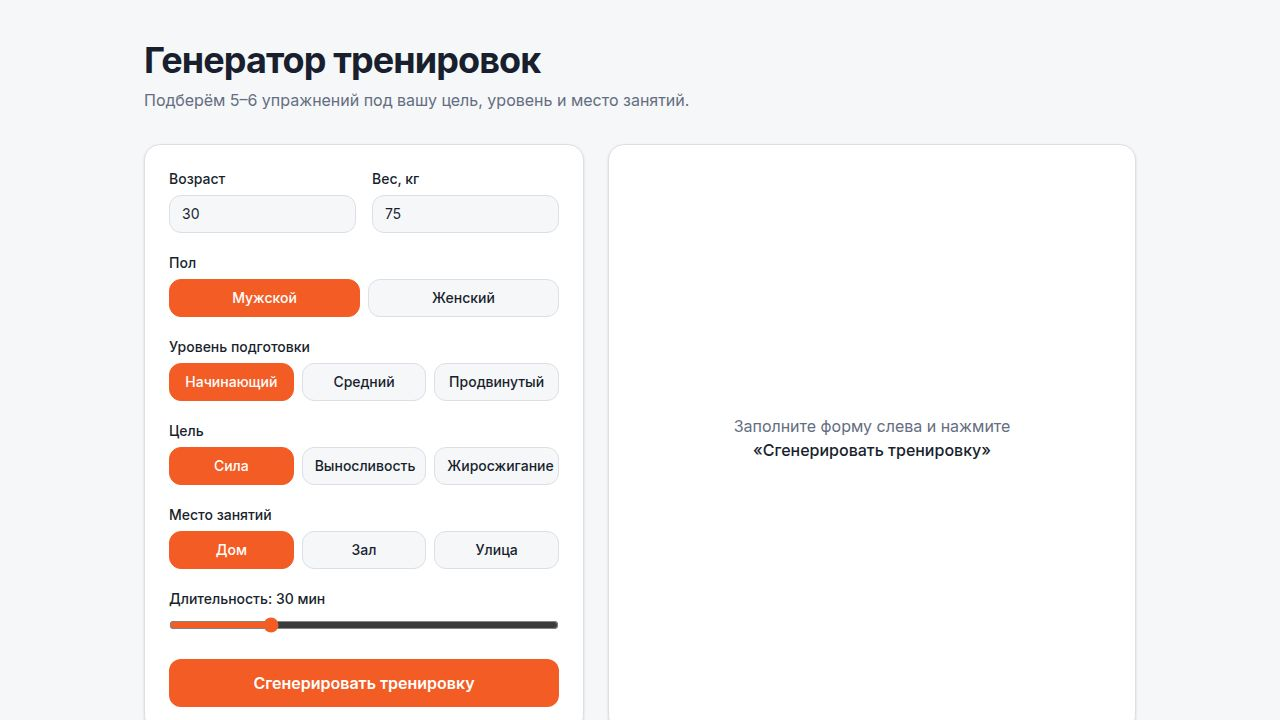
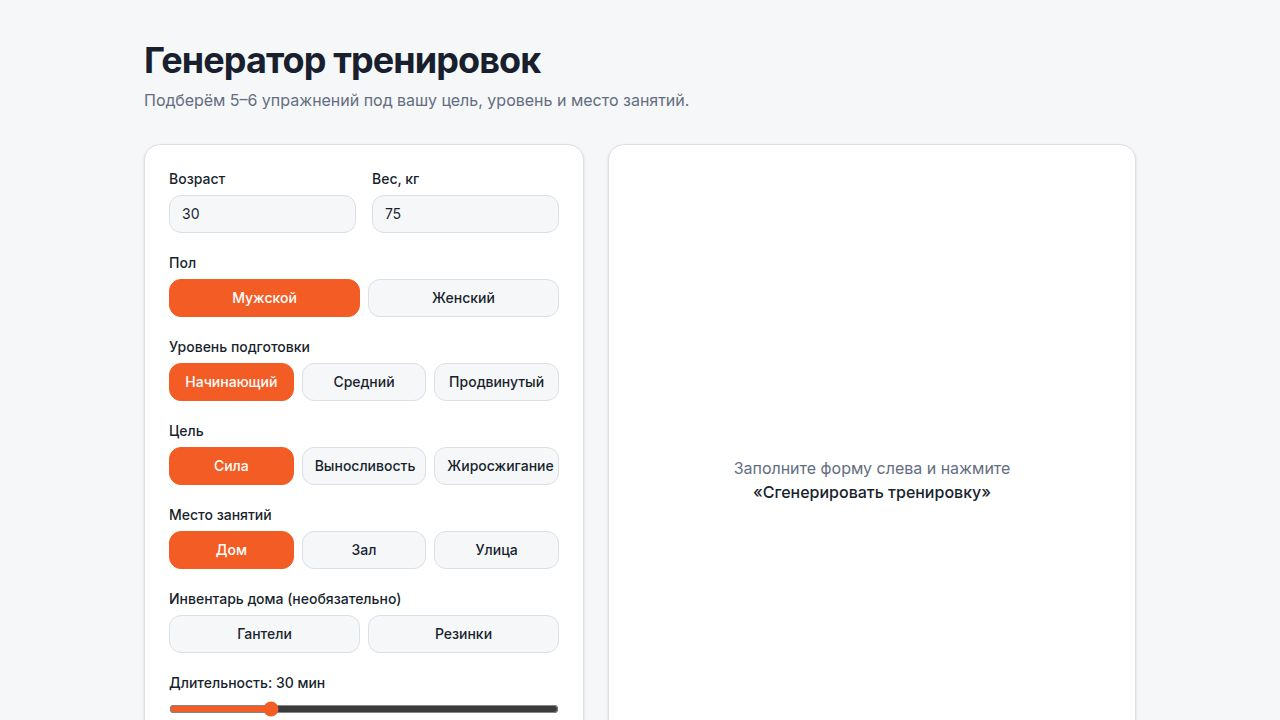
Add information about rest time between exercises
Add rest duration between exercises to the workout result, varying based on fitness level and goal.

Replit-Commit-Author: Agent
Replit-Commit-Session-Id: 5aa8140f-53c4-4a51-8685-b50749646fe8
Replit-Commit-Checkpoint-Type: full_checkpoint
Replit-Commit-Event-Id: 81a51727-2b13-446f-ba5c-9de12d0382b9
Replit-Commit-Screenshot-Url: https://storage.googleapis.com/screenshot-production-us-central1/eb931f4c-0b9d-4fb1-99ad-06359ac3e716/5aa8140f-53c4-4a51-8685-b50749646fe8/ONPYFKr
Replit-Helium-Checkpoint-Created: true

Changed region(s): [[0.125, 0.825, 0.4375, 1.0], [0.5625, 0.5806, 0.7812, 0.7028]]

diff --git a/artifacts/workout-generator/src/lib/workout.ts b/artifacts/workout-generator/src/lib/workout.ts
@@ -386,6 +386,7 @@ export interface WorkoutResult {
   warnings: string[];
   tips: string[];
   summary: string;
+  restBetween: string;
 }
 
 export function generateWorkout(f: FormData): WorkoutResult {
@@ -462,5 +463,15 @@ export function generateWorkout(f: FormData): WorkoutResult {
   }
   tips.push("После тренировки — заминка и растяжка 5 минут.");
 
-  return { exercises, calories, warnings, tips, summary };
+  // Отдых между упражнениями
+  const restBetweenByLevel: Record<Level, string> = {
+    beginner: "1.5–2 минуты",
+    intermediate: "60–90 секунд",
+    advanced: "45–60 секунд",
+  };
+  let restBetween = restBetweenByLevel[f.level];
+  if (f.goal === "strength") restBetween += " (можно до 2–3 мин на тяжёлых базовых)";
+  if (f.goal === "fatburn") restBetween = "30–60 секунд (держим пульс)";
+
+  return { exercises, calories, warnings, tips, summary, restBetween };
 }

diff --git a/artifacts/workout-generator/src/App.tsx b/artifacts/workout-generator/src/App.tsx
@@ -285,6 +285,11 @@ function ResultView({
         </p>
       )}
 
+      <div className="rounded-md border border-primary/30 bg-primary/5 px-3 py-2 text-sm">
+        <span className="font-semibold">Отдых между упражнениями:</span>{" "}
+        {result.restBetween}
+      </div>
+
       <ol className="space-y-2">
         {result.exercises.map((ex, i) => (
           <li
